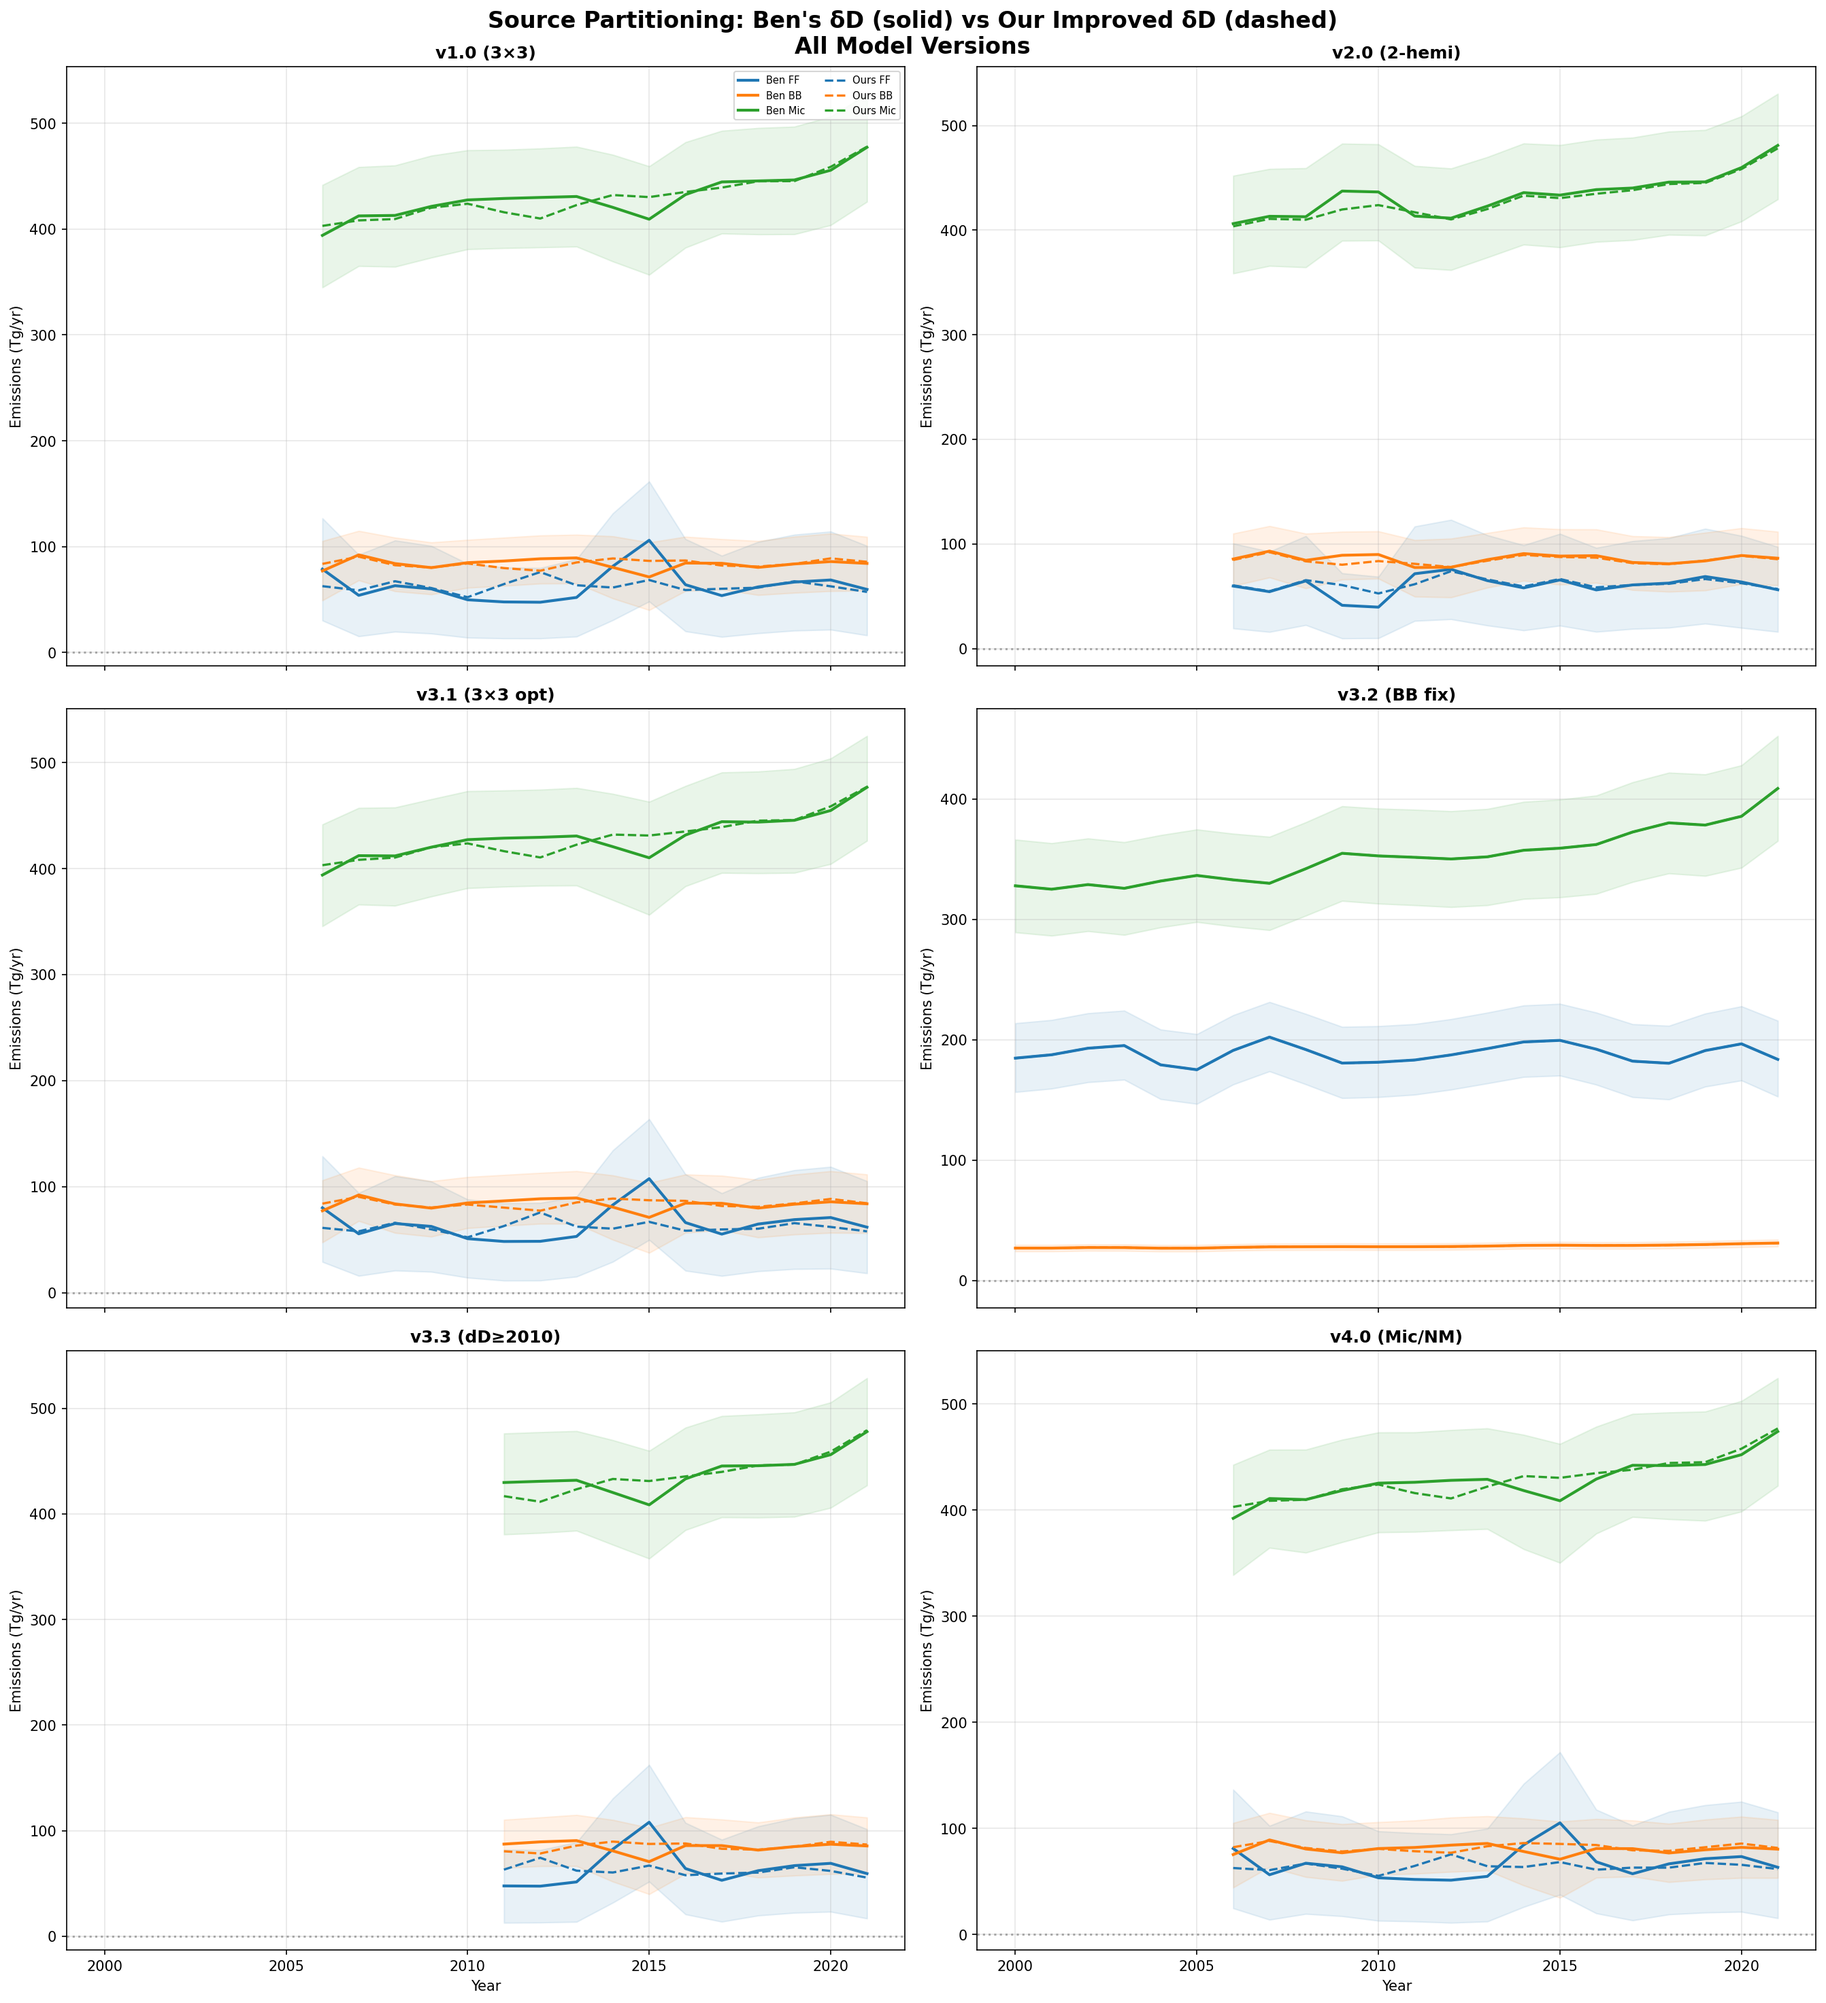
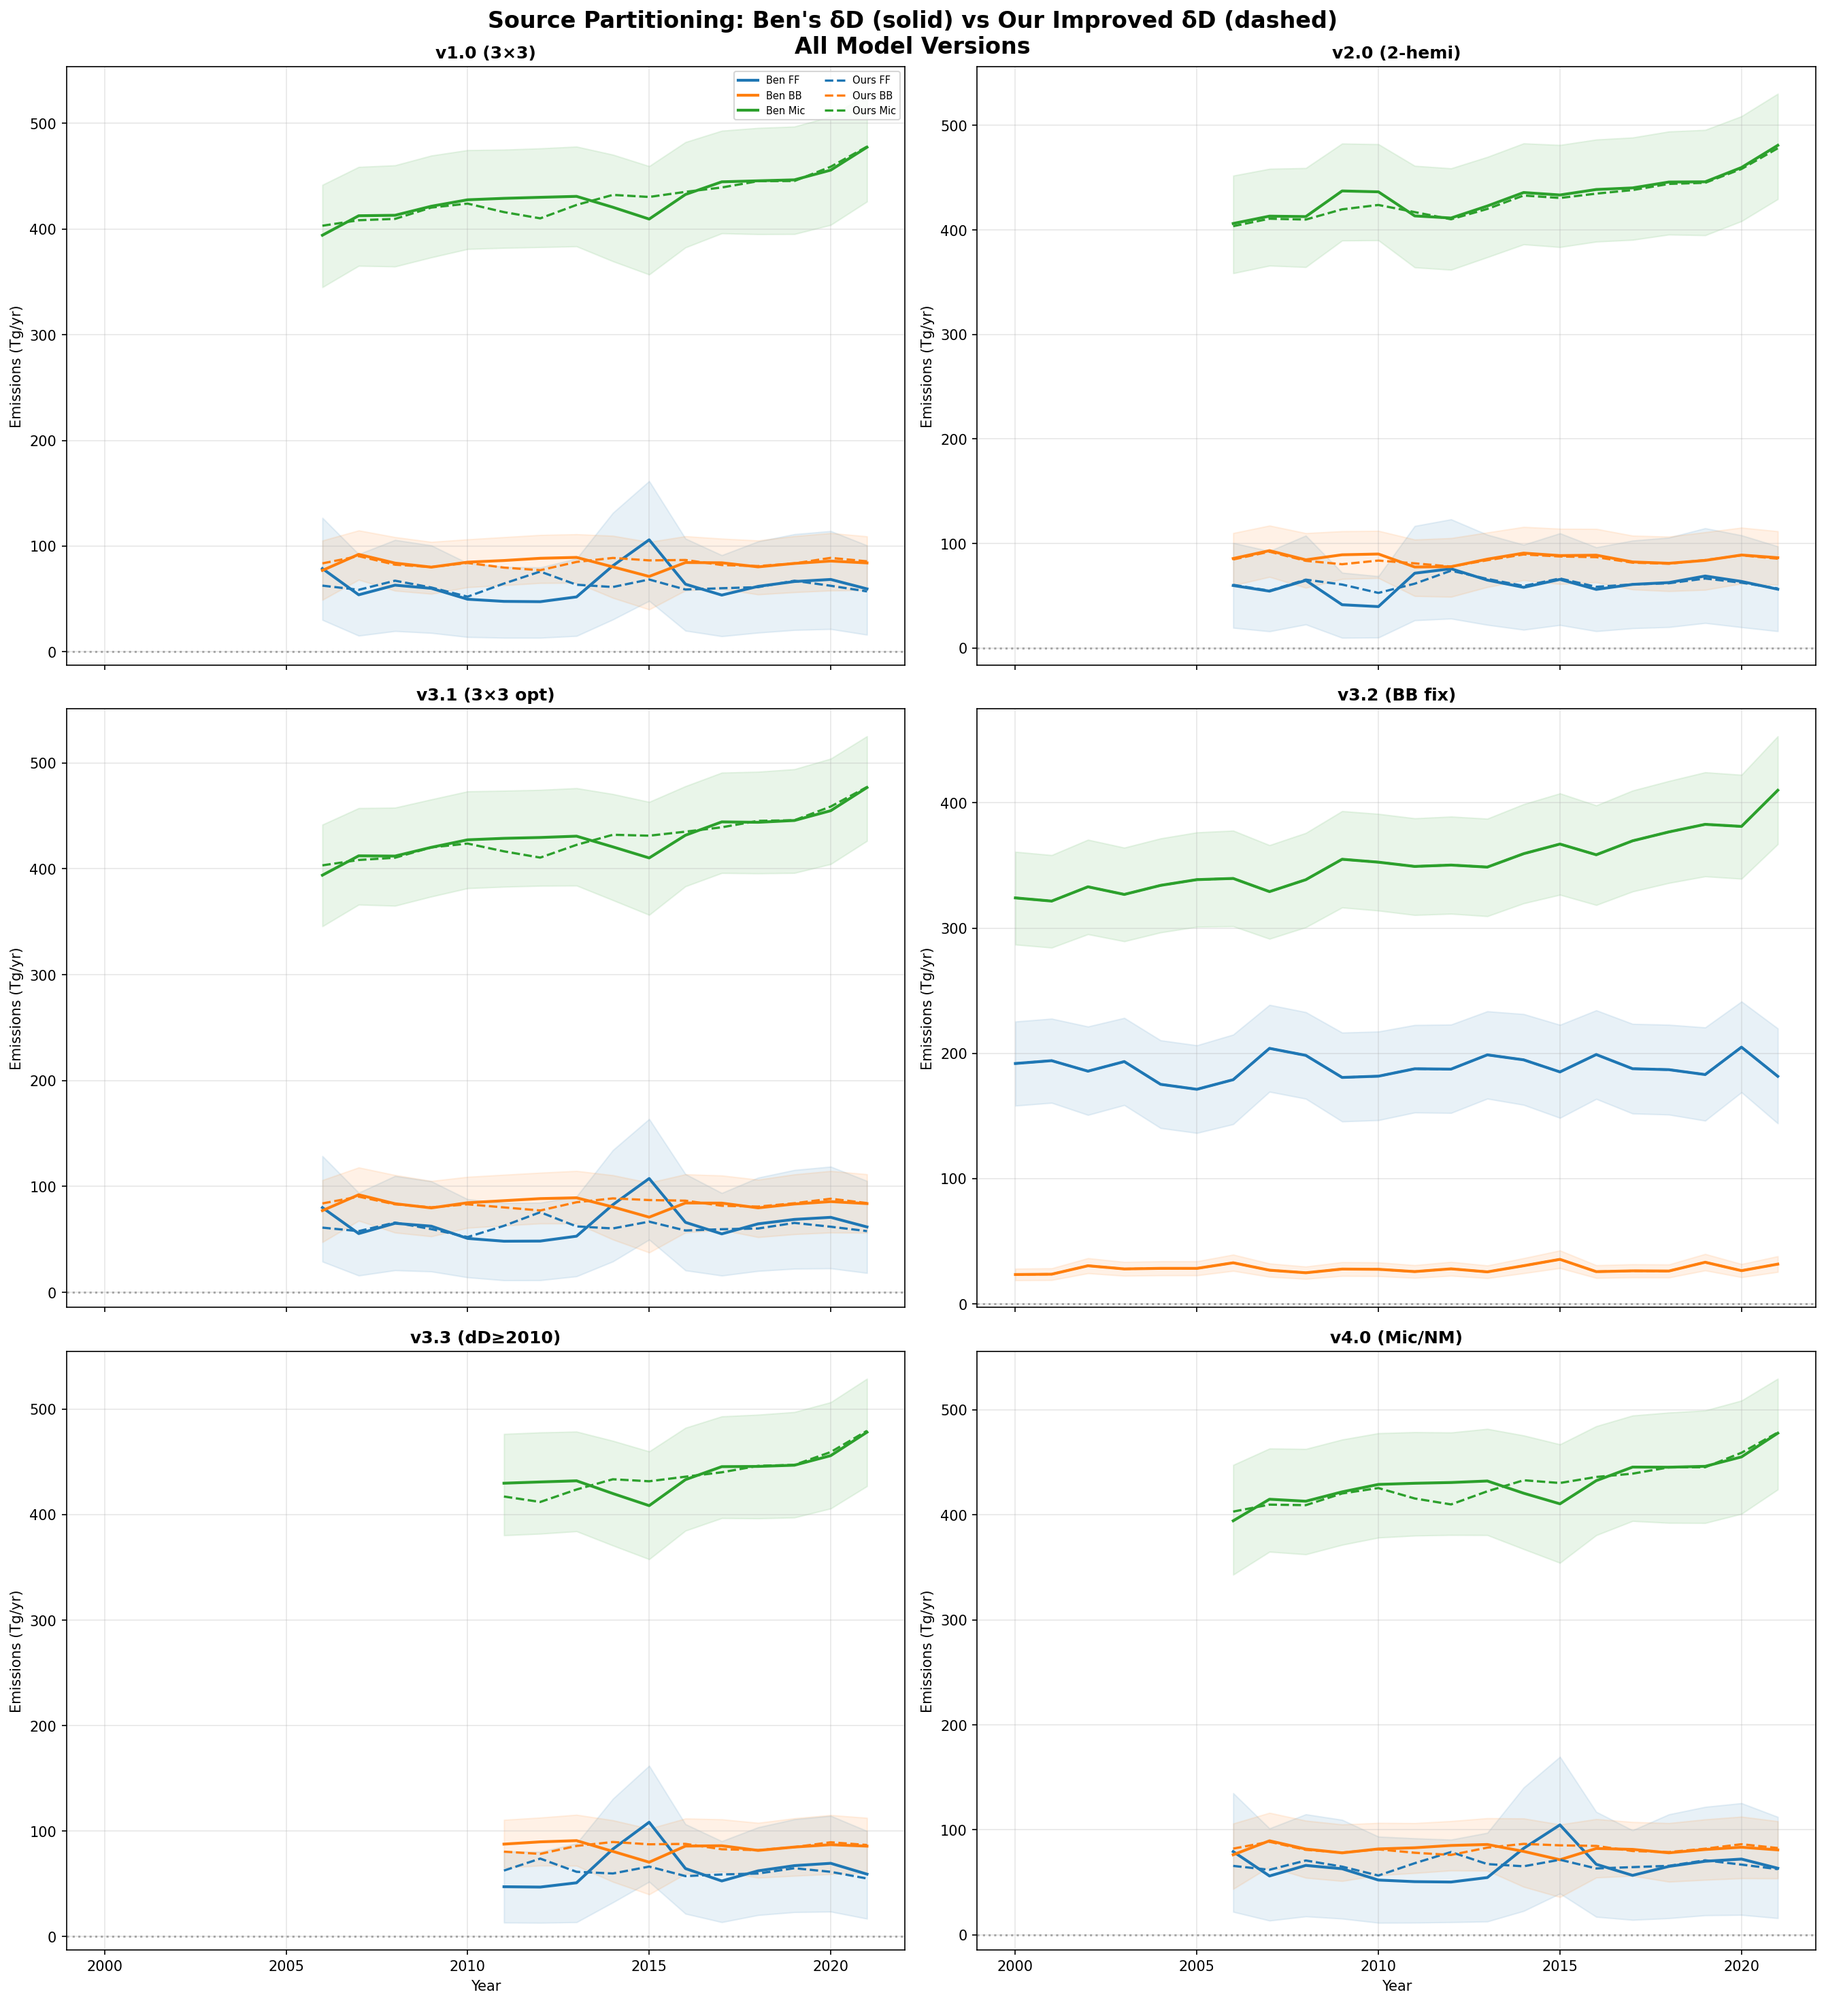
Fix v3.2: use annual GFED4 BB instead of flat 5% fraction
BB_fixed now uses actual CarbonTracker GFED4 'Pyro Prior' annual data
(23-36 Tg/yr with year-to-year variation) + 20% MC uncertainty,
not a flat fraction of total emissions.

diff --git a/compare_dD_all_versions.py b/compare_dD_all_versions.py
@@ -163,8 +163,14 @@ def run_3x3(dD_dict, label, n_mc=N_MC):
             except: pass
     return pd.DataFrame(rows)
 
-def run_bb_fixed(n_mc=N_MC, bb_frac=0.05):
-    """v3.2: Fix BB fraction, δ13C only → FF + Mic"""
+# Load annual GFED4 BB from CarbonTracker (column 9 = "Pyro Prior")
+_ct_df = pd.read_excel(BASE_DIR / 'rel' / 'data' / 'CarbonTracker_CH4.xlsx')
+BB_GFED = {int(_ct_df.iloc[i, 0]): float(_ct_df.iloc[i, 9]) for i in range(len(_ct_df))}
+print(f"  GFED4 BB loaded: {min(BB_GFED.keys())}–{max(BB_GFED.keys())}, "
+      f"mean={np.mean(list(BB_GFED.values())):.1f} Tg/yr")
+
+def run_bb_fixed(n_mc=N_MC):
+    """v3.2: BB fixed from GFED4 (annual), δ13C only → FF + Mic"""
     rows = []
     for k in range(n_mc):
         tau = np.random.normal(9.1, 0.9)
@@ -175,11 +181,16 @@ def run_bb_fixed(n_mc=N_MC, bb_frac=0.05):
         bb13 = np.random.normal(*src_13c['BB'])
         mic13 = np.random.normal(*src_13c['Mic'])
         
+        # Add uncertainty to BB: ±20% (CarbonTracker prior uncertainty)
+        bb_scale = np.random.normal(1.0, 0.2)
+        
         r13 = derive_source_isotope(ch4_ppb, d13c_atm, tau, kie_13c, PPB_TO_TG)
         for yr in sorted(r13.keys()):
             S = r13[yr]['S_tot']
             d13_s = r13[yr]['d_src']
-            BB = bb_frac * S
+            # Use annual GFED BB, fall back to mean if year not available
+            BB = BB_GFED.get(yr, np.mean(list(BB_GFED.values()))) * bb_scale
+            if BB < 0: BB = 0
             rem = S - BB
             if rem <= 0: continue
             d13_rem = (d13_s * S - BB * bb13) / rem

diff --git a/CHANGELOG_Improved_dD.md b/CHANGELOG_Improved_dD.md
@@ -44,7 +44,7 @@ For v2.0 (two-hemisphere), used actual NH/SH δD from both sources.
 | v2.0 (2-hemi) | **Ours** | **62.9** | 84.1 | 434.9 | 59.3% |
 | v3.1 (3×3 opt) | Ben | 68.6 | 82.6 | 435.8 | 59.3% |
 | v3.1 (3×3 opt) | **Ours** | **62.5** | 83.8 | 435.3 | 60.4% |
-| v3.2 (BB fix) | — | 189.0 | 29.3 | 367.4 | 100.0% |
+| v3.2 (BB fix) | — | 189.9 | 28.6 | 367.2 | 100.0% |
 | v3.3 (dD≥2010) | Ben | 68.4 | 83.6 | 437.3 | 60.2% |
 | v3.3 (dD≥2010) | **Ours** | **63.0** | 84.9 | 436.9 | 60.0% |
 | v4.0 (Mic/NM) | Ben | 71.9 | 79.2 | 433.2 | 45.7% |
@@ -59,7 +59,7 @@ For v2.0 (two-hemisphere), used actual NH/SH δD from both sources.
 - **FF emissions consistently ~5–7 Tg/yr lower** with our improved δD (across all models that use δD)
 - **Microbial emissions barely change** (±1–2 Tg/yr) — robust to δD input choice
 - **BB emissions change by <2 Tg/yr** — also robust
-- v3.2 (BB-fixed, δ13C only) is **identical** for both inputs, as expected
+- v3.2 (BB-fixed, δ13C only) is **identical** for both δD inputs, as expected — but BB now varies annually using GFED4 data (23–36 Tg/yr) rather than a flat fraction
 
 #### The impact is concentrated in specific years
 
